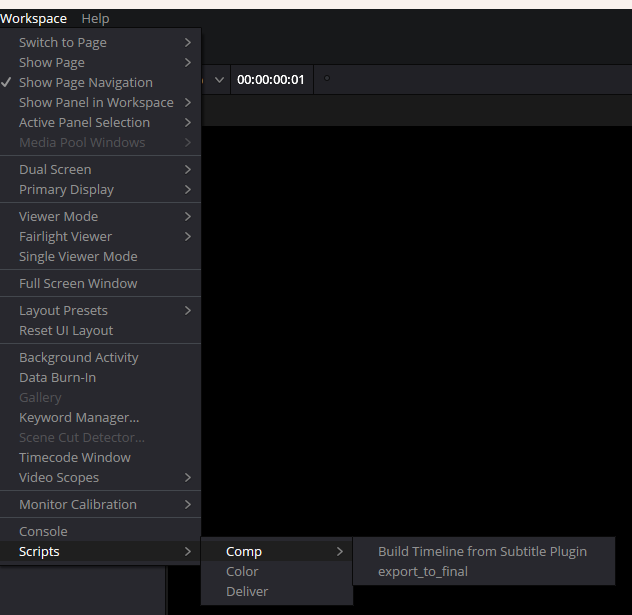
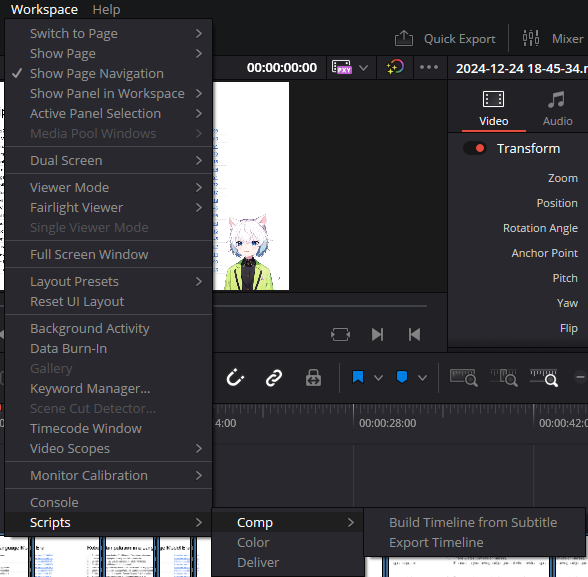
many improvements

diff --git a/Comp/Build Timeline from Subtitle.py b/Comp/Build Timeline from Subtitle.py
@@ -1,8 +1,8 @@
-import sys
 import os.path as osp
 from glob import glob
 from datetime import datetime
 import pysubs2
+import json
 
 # some element IDs
 winID = "com.blackmagicdesign.resolve.BuildTimelineScript"	# should be unique for single instancing
@@ -12,12 +12,33 @@ sourceID = "SourcePath"
 fileID = "File"
 timelineID = "Timeline"
 expswitchID = "ExportEnable"
-expsubsID = "ExportSubs"
 targetID = "TargetPath"
 logID = "Log"
+config_filename = 'C:\\Users\\Public\\Documents\\davinci_plugin_save.json'
 
-video_type = '.mkv'
-subtitle_type = '.srt'
+def save_global_config(config):
+    json.dump(config, open(config_filename, 'w'), indent=2)
+
+def load_global_config():
+    try:
+        global_config = json.load(open(config_filename, 'r'))
+    except:
+        global_config = {
+            'video_type': '.mkv',
+            'subtitle_type': '.srt',
+            'import_dir': 'D:\\Video2024',
+            'export_dir': 'E:\\SynologyDrive\\PaperReview\\Final',
+        }
+        save_global_config(global_config)
+    return global_config
+
+global_config = load_global_config()
+try:
+    video_type = global_config['video_type']
+    subtitle_type = global_config['subtitle_type']
+except:
+    video_type = '.mkv'
+    subtitle_type = '.srt'
 
 ui = fusion.UIManager
 dispatcher = bmd.UIDispatcher(ui)
@@ -37,14 +58,14 @@ if win:
 # logoPath = fusion.MapPath(r"AllData:Scripts/Comp/SamplePlugin/img/logo.png")
 header = '<html><body><h1 style="vertical-align:middle;">'
 # header = header + '<img src="' + logoPath + '"/>&nbsp;&nbsp;&nbsp;'
-header = header + '<b>Build Timeline from Subtitle Script</b>'
+header = header + '<b>Build Timeline from Subtitle</b>'
 header = header + '</h1></body></html>'
 
 # define the window UI layout
 win = dispatcher.AddWindow({
 	'ID': winID,
 	# 'Geometry': [ 100,100,600,300 ],
-	'WindowTitle': "Build Timeline from Subtitle Script",
+	'WindowTitle': "Build Timeline from Subtitle",
 	},
 	ui.VGroup([
 		ui.Label({ 'Text': header, 'Weight': 0, 'Font': ui.Font({ 'Family': "Times New Roman" }) }),
@@ -81,13 +102,12 @@ win = dispatcher.AddWindow({
                 'Weight': 5
             })
         ]),
-        ui.Button({ 'ID': execID,  'Text': "Import Videos" }),
+        ui.Button({ 'ID': execID,  'Text': "Build Timeline" }),
         ui.TextEdit({
 			'ID': logID,
             'Weight': 5,
             'ReadOnly': True
 			}),
-        
 	])
 )
    
@@ -160,6 +180,8 @@ def OnExec(ev):
         log_print('Please select a file to import')
         return
     
+    log_print('-' * 10 + 'Build Timeline Started' + '-' * 10)
+    
     # add video file to media pool
     file_base = win.Find(fileID).CurrentText
     ms.AddItemListToMediaPool(file_base + video_type)
@@ -185,7 +207,7 @@ def OnExec(ev):
     subs = pysubs2.load(subtitle_path)
     # log_print(clip.GetClipProperty())
     fps = clip.GetClipProperty('FPS')
-    
+    log_print(f'Clip FPS: {fps}' )
     subClipList = []    
     for sub in merge_close_subtitles(subs):
         start = sub.start / 1000.0  # Convert milliseconds to seconds
@@ -205,9 +227,14 @@ def OnExec(ev):
         project.SetCurrentTimeline(target_timeline)
         mediaPool.AppendToTimeline(subClipList)
     else:
-        target_timeline = mediaPool.CreateTimelineFromClips(timeline_name, subClipList[:1])
+        # for unknown reasons it will not create multiple clips
+        # when dumping the whole list to the following function
+        target_timeline = mediaPool.CreateTimelineFromClips(timeline_name, subClipList[:1]) 
         project.SetCurrentTimeline(target_timeline)
         mediaPool.AppendToTimeline(subClipList[1:])
+    # log_print(target_timeline.GetSetting()) # thisline will print all the properties
+    timeline_fps = target_timeline.GetSetting('timelineFrameRate') # sync the fps so that the video lenght can be estimated correctly
+    log_print(f'Timeline FPS: {timeline_fps}' )
     log_print(f'Insert {len(subClipList)} clips, {len(target_timeline.GetItemListInTrack("video", 1))} clips in timeline {target_timeline.GetName()}')
     resolve.OpenPage('Edit')
     
@@ -215,8 +242,14 @@ def OnExec(ev):
     if win.Find(expswitchID).Checked:
         subs = pysubs2.load(subtitle_path)
         subs_dst = osp.join(win.Find(targetID).Text, timeline_name + subtitle_type)
-        compress_subtitles(subs, target_timeline.GetEndFrame()/fps, subs_dst)
-    log_print('-' * 10 + 'Done' + '-' * 10)
+        compress_subtitles(subs, target_timeline.GetEndFrame()/timeline_fps, subs_dst)
+    
+    global_config['import_dir'] = win.Find(sourceID).Text
+    global_config['export_dir'] = win.Find(targetID).Text 
+    save_global_config(global_config)
+    
+    log_print('-' * 10 + 'Build Timeline Done' + '-' * 10)
+
 
 def getTimelineName():
     t = datetime.now()
@@ -236,7 +269,7 @@ def getTimelineName():
     
 # Event handlers
 def OnClose(ev):
-	dispatcher.ExitLoop()
+    dispatcher.ExitLoop()
  
  
 def OnRefresh(ev):
@@ -249,20 +282,18 @@ def OnRefresh(ev):
     combo.AddItems(items)
     # check timeline as well
     win.Find(timelineID).Text = getTimelineName()
+    global_config['import_dir'] = win.Find(sourceID).Text
+    global_config['export_dir'] = win.Find(targetID).Text 
+    save_global_config(global_config)
     
 
 # assign event handlers
 win.On[winID].Close     = OnClose
 win.On[execID].Clicked  = OnExec
 win.On[refreshID].Clicked = OnRefresh
+win.Find(sourceID).Text = global_config['import_dir']
+win.Find(targetID).Text = global_config['export_dir']
 
-
-win.Find(sourceID).Text = 'D:\\Video2024'
-try:
-    from export_to_final import target_dir
-    win.Find(targetID).Text = target_dir
-except:
-    pass
 OnRefresh(None)
 
 # Main dispatcher loop

diff --git a/Comp/Export Timeline.py b/Comp/Export Timeline.py
@@ -1,7 +1,18 @@
-import os.path as osp
-from glob import glob
+import json
 
-target_dir = 'E:\\SynologyDrive\\PaperReview\\Final'
+config_filename = 'C:\\Users\\Public\\Documents\\davinci_plugin_save.json'
+
+def load_global_config():
+    try:
+        global_config = json.load(open(config_filename, 'r'))
+    except:
+        global_config = {
+            'export_dir': 'E:\\SynologyDrive\\PaperReview\\Final',
+        }
+    return global_config
+
+global_config = load_global_config()
+target_dir = global_config['export_dir']
 
 if __name__ == '__main__':
     resolve = app.GetResolve()

diff --git a/subs.py b/subs.py
@@ -9,7 +9,7 @@ from moviepy.editor import VideoFileClip
 
 # 使用Whisper为所有原始视频素材添加字幕
 config = {
-    'video_path': 'D:\\Video2024',
+    'video_path': 'D:\\Video2025',
     'TuneTimeline': True
 }
 

diff --git a/README.md b/README.md
@@ -3,8 +3,9 @@
 一个适合[我的频道](https://space.bilibili.com/823532)的视频后期工具箱。
 
 ## 日志
-- 4/14/24 根据字幕时间点前后的声音大小来精调字幕时间轴; 增加了arxiv标题查询工具
-- 4/13/24 创建了这个仓库
+- 12/25/2024 Davinci Resolve v19.1免费版不支持使用本仓库中这种带GUI的插件，请不要升级; 增加了缓存上次使用的目录的功能; 修正了fps不同导致的视频长度计算错误bug
+- 4/14/2024 根据字幕时间点前后的声音大小来精调字幕时间轴; 增加了arxiv标题查询工具
+- 4/13/2024 创建了这个仓库
 
 ## 秋刀鱼都能懂的Windows用视频工作流
 这是一个我的频道流水线上的[普通视频](https://www.bilibili.com/video/BV12F4m1N7Mc/)，在新的工作流中，它的制作非常容易：
@@ -12,9 +13,9 @@
 2. 使用[OBS](https://obsproject.com/)录制一整个长的视频，包括忘词口胡等等都不要停
 3. 使用[subs.py](subs.py)调用[faster_whisper](https://github.com/SYSTRAN/faster-whisper)产生与视频匹配的字幕
 4. 使用[Subtitle Edit](https://github.com/SubtitleEdit/subtitleedit)编辑产生的字幕，在这一阶段去掉各种不可公开的片段并校对字幕，只需要保留要保留的视频片段对应的字幕即可，必要时调整时间轴
-5. 以下操作(5-7)在[Davinci Resolve](https://www.blackmagicdesign.com/products/davinciresolve)中进行，这里只是大致介绍，后面的章节有更详细的使用方法。使用[这个插件](<Comp/Build Timeline from Subtitle Plugin.py>)，根据字幕文件中的时间轴，把视频切片创建成一个Davinci Resolve中的时间轴，同时导出最终视频的字幕。
+5. 以下操作(5-7)在[Davinci Resolve](https://www.blackmagicdesign.com/products/davinciresolve)中进行，这里只是大致介绍，后面的章节有更详细的使用方法。使用[这个插件](<Comp/Build Timeline from Subtitle.py>)，根据字幕文件中的时间轴，把视频切片创建成一个Davinci Resolve中的时间轴，同时导出最终视频的字幕。
 6. 在Davinci Resolve中Normalize时间轴中的音频
-7. 在Davinci Resolve中使用[这个脚本](Comp/export_to_final.py)导出成品视频
+7. 在Davinci Resolve中使用[这个脚本](Comp/Export Timeline.py)导出成品视频
 8. 使用[Microsoft Powerpoint](https://www.microsoft.com/en-us/microsoft-365/powerpoint)与特定的模板制作封面
 9. 编辑`arxiv_info.txt`第一行为要查询的arxiv论文的ID，运行[arxiv_info.py](arxiv_info.py)，格式化的论文信息会重新输出到`arxiv_info.txt`
 10. 手动上传到[我的频道](https://space.bilibili.com/823532)，并更新[这个文档](https://docs.qq.com/sheet/DSUdOTG9xWUdydVB6)
@@ -22,16 +23,16 @@
 12. 和观众吹一会儿牛，然后摸了
 
 ## 步骤3中subs.py的使用方法
-更改第10行`'video_path': 'D:\\Video2024'`为存放视频的目录，代码会扫描目录下所有没有相应`srt`字幕文件的`mkv`视频，然后尝试生成字幕。
+更改第10行`'video_path': 'D:\\Video2025'`为存放视频的目录，代码会扫描目录下所有没有相应`srt`字幕文件的`mkv`视频，然后尝试生成字幕。
 
 ## 在Davinci Resolve中使用插件的方法
 1. 复制`Comp`目录中的所有内容到你的Davinci Resolve的插件目录，比如我的是`C:\ProgramData\Blackmagic Design\DaVinci Resolve\Fusion\Scripts\Comp`
 2. 然后你就可以在菜单中找到这两个脚本/插件，选中即可启动
 ![alt text](figs/menu.png)
-3. 使用Build Timeline from Subtitle Plugin根据字幕导入切好的视频，方法见图
+3. 使用Build Timeline from Subtitle根据字幕导入切好的视频，方法见图
 ![alt text](figs/plugin.png)
 4. 记得Normalize时间轴中的音频
-5. 使用export_to_final后会自动创建渲染任务（默认YouTube - 1080P预设），自己点一下渲染即可
+5. 使用Export Timeline后会自动创建渲染任务（默认YouTube - 1080P预设），自己点一下渲染即可
 
 ## 步骤9中arxiv_info.py的使用方法
 1. 第一次使用时直接运行，会自动创建`arxiv_info.txt`这个文件
